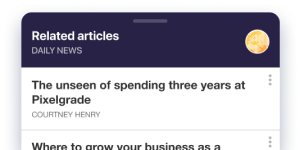
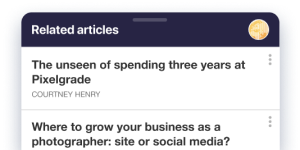
Apply headerLite in comments and top articles (#80)

diff --git a/experiences/comments/comments.html b/experiences/comments/comments.html
@@ -98,32 +98,25 @@
 			width: calc(100% - 30px);
 		}
 
-		.mrf-header__wrapper {
+		.mrf-headerLite__wrapper {
 			background: #282346;
 			display: flex;
 			justify-content: space-between;
 			align-items: center;
-			padding: 10px 15px 15px;
+			padding: 0 15px 8px;
+			height: 40px;
 			box-sizing: border-box;
 		}
 
-		.mrf-header__main {
-			display: flex;
-			flex-direction: column;
-			color: #FFF;
-		}
-
-		.mrf-header__title {
-			font-size: 1em;
+		.mrf-headerLite__title {
+			color: white;
+			text-align: left;
 			font-weight: 700;
-			margin: 0 0 3px;
-		}
-
-		.mrf-header__subtitle {
-			text-transform: uppercase;
-			font-size: .7em;
-			font-weight: 500;
-			opacity: .7;
+			font-size: 18px;
+			white-space: nowrap;
+			text-overflow: ellipsis;
+			overflow: hidden;
+			flex: 0 70%;
 		}
 
 		.mrf-comments-item__wrapper {
@@ -181,20 +174,18 @@
 </head>
 
 <body>
-	<header class="mrf-header__wrapper">
-		<div class="mrf-header__main">
-			<h1 class="mrf-header__title">Comments (9)</h1>
-			<span class="mrf-header__subtitle">Marfeel news</span>
+	<header>
+		<div class="mrf-headerLite__wrapper">
+			<span class="mrf-headerLite__title">Comments (87)</span>
+			<img height="28" width="28" src="https://${CURRENT_HOSTNAME}/assets/experiences/dailynews-icon.png">
 		</div>
-		<img height="34" width="34" src="https://${CURRENT_HOSTNAME}/assets/experiences/dailynews-icon.png">
 	</header>
 	<div>
 		<input type="text" class="mrf-input" placeholder="Type your comment" />
 		<article class="mrf-article mrf-comments-item">
 			<a href="#" class="mrf-comments-item__wrapper">
 				<div class="mrf-comments__image">
-					<img
-						src="https://images.unsplash.com/photo-1599566150163-29194dcaad36?auto=format&crop=faces&w=40&h=40&q=80&fit=crop">
+					<img src="https://${CURRENT_HOSTNAME}/assets/images/avatars/5.jpeg" />
 				</div>
 				<div class="mrf-comments__content">
 					<address class="mrf-comments__author">
@@ -217,8 +208,7 @@
 		<article class="mrf-article mrf-comments-item">
 			<a href="#" class="mrf-comments-item__wrapper">
 				<div class="mrf-comments__image">
-					<img
-						src="https://images.unsplash.com/photo-1607746882042-944635dfe10e?auto=format&crop=faces&w=40&h=40&q=80&fit=crop">
+					<img src="https://${CURRENT_HOSTNAME}/assets/images/avatars/6.jpeg" />
 				</div>
 				<div class="mrf-comments__content">
 					<address class="mrf-comments__author">
@@ -241,8 +231,7 @@
 		<article class="mrf-article mrf-comments-item">
 			<a href="#" class="mrf-comments-item__wrapper">
 				<div class="mrf-comments__image">
-					<img
-						src="https://${CURRENT_HOSTNAME}/assets/images/avatars/2.jpeg">
+					<img src="https://${CURRENT_HOSTNAME}/assets/images/avatars/2.jpeg" />
 				</div>
 				<div class="mrf-comments__content">
 					<address class="mrf-comments__author">
@@ -265,8 +254,7 @@
 		<article class="mrf-article mrf-comments-item">
 			<a href="#" class="mrf-comments-item__wrapper">
 				<div class="mrf-comments__image">
-					<img
-						src="https://${CURRENT_HOSTNAME}/assets/images/avatars/3.jpeg">
+					<img src="https://${CURRENT_HOSTNAME}/assets/images/avatars/3.jpeg" />
 				</div>
 				<div class="mrf-comments__content">
 					<address class="mrf-comments__author">
@@ -289,8 +277,7 @@
 		<article class="mrf-article mrf-comments-item">
 			<a href="#" class="mrf-comments-item__wrapper">
 				<div class="mrf-comments__image">
-					<img
-						src="https://${CURRENT_HOSTNAME}/assets/images/avatars/5.jpeg">
+					<img src="https://${CURRENT_HOSTNAME}/assets/images/avatars/5.jpeg" />
 				</div>
 				<div class="mrf-comments__content">
 					<address class="mrf-comments__author">
@@ -313,8 +300,7 @@
 		<article class="mrf-article mrf-comments-item">
 			<a href="#" class="mrf-comments-item__wrapper">
 				<div class="mrf-comments__image">
-					<img
-						src="https://${CURRENT_HOSTNAME}/assets/images/avatars/6.jpeg">
+					<img src="https://${CURRENT_HOSTNAME}/assets/images/avatars/6.jpeg" />
 				</div>
 				<div class="mrf-comments__content">
 					<address class="mrf-comments__author">
@@ -337,8 +323,7 @@
 		<article class="mrf-article mrf-comments-item">
 			<a href="#" class="mrf-comments-item__wrapper">
 				<div class="mrf-comments__image">
-					<img
-						src="https://${CURRENT_HOSTNAME}/assets/images/avatars/1.jpeg">
+					<img src="https://${CURRENT_HOSTNAME}/assets/images/avatars/1.jpeg" />
 				</div>
 				<div class="mrf-comments__content">
 					<address class="mrf-comments__author">
@@ -361,8 +346,7 @@
 		<article class="mrf-article mrf-comments-item">
 			<a href="#" class="mrf-comments-item__wrapper">
 				<div class="mrf-comments__image">
-					<img
-						src="https://${CURRENT_HOSTNAME}/assets/images/avatars/4.jpeg">
+					<img src="https://${CURRENT_HOSTNAME}/assets/images/avatars/4.jpeg" />
 				</div>
 				<div class="mrf-comments__content">
 					<address class="mrf-comments__author">
@@ -385,8 +369,7 @@
 		<article class="mrf-article mrf-comments-item">
 			<a href="#" class="mrf-comments-item__wrapper">
 				<div class="mrf-comments__image">
-					<img
-						src="https://${CURRENT_HOSTNAME}/assets/images/avatars/1.jpeg">
+					<img src="https://${CURRENT_HOSTNAME}/assets/images/avatars/1.jpeg" />
 				</div>
 				<div class="mrf-comments__content">
 					<address class="mrf-comments__author">

diff --git a/experiences/top_articles/top_articles.html b/experiences/top_articles/top_articles.html
@@ -88,32 +88,25 @@
 			text-decoration: none;
 		}
 
-		.mrf-header__wrapper {
+		.mrf-headerLite__wrapper {
 			background: #282346;
 			display: flex;
 			justify-content: space-between;
 			align-items: center;
-			padding: 10px 15px 15px;
+			padding: 0 15px 8px;
+			height: 40px;
 			box-sizing: border-box;
 		}
 
-		.mrf-header__main {
-			display: flex;
-			flex-direction: column;
-			color: #FFF;
-		}
-
-		.mrf-header__title {
-			font-size: 1em;
+		.mrf-headerLite__title {
+			color: white;
+			text-align: left;
 			font-weight: 700;
-			margin: 0 0 3px;
-		}
-
-		.mrf-header__subtitle {
-			text-transform: uppercase;
-			font-size: .7em;
-			font-weight: 500;
-			opacity: .7;
+			font-size: 18px;
+			white-space: nowrap;
+			text-overflow: ellipsis;
+			overflow: hidden;
+			flex: 0 70%;
 		}
 
 		.mrf-ranking__item--wrapper {
@@ -140,12 +133,11 @@
 </head>
 
 <body>
-	<header class="mrf-header__wrapper">
-		<div class="mrf-header__main">
-			<h1 class="mrf-header__title">Top articles</h1>
-			<span class="mrf-header__subtitle">Daily news</span>
+	<header>
+		<div class="mrf-headerLite__wrapper">
+			<span class="mrf-headerLite__title">Top articles</span>
+			<img height="28" width="28" src="https://${CURRENT_HOSTNAME}/assets/experiences/dailynews-icon.png">
 		</div>
-		<img height="34" width="34" src="https://${CURRENT_HOSTNAME}/assets/experiences/dailynews-icon.png">
 	</header>
 	<div>
 		<article class="mrf-article mrf-ranking__item">
